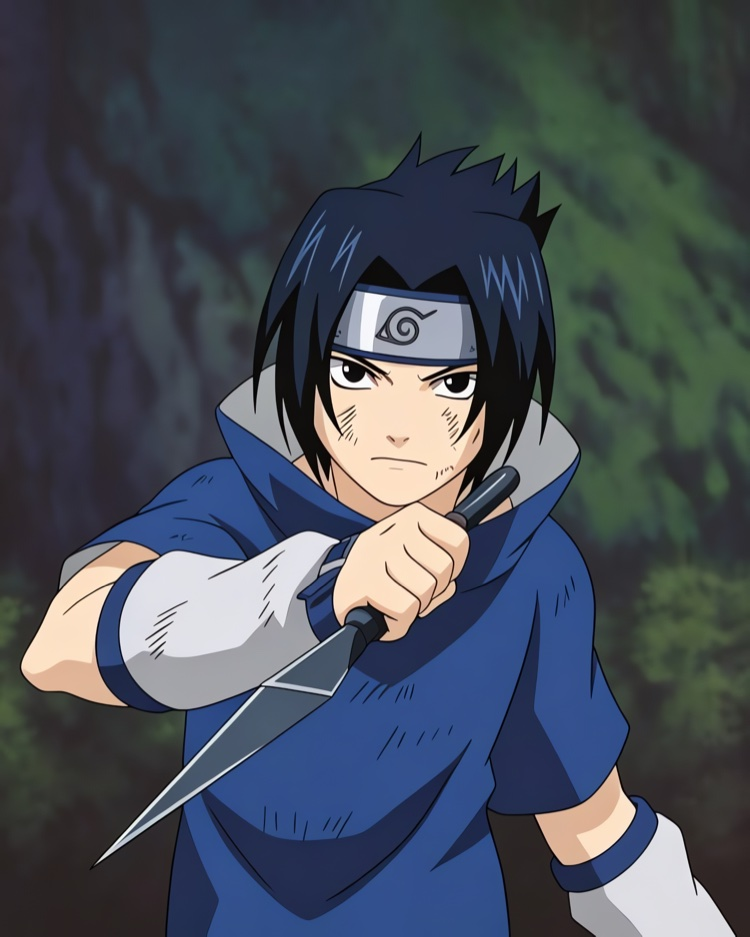
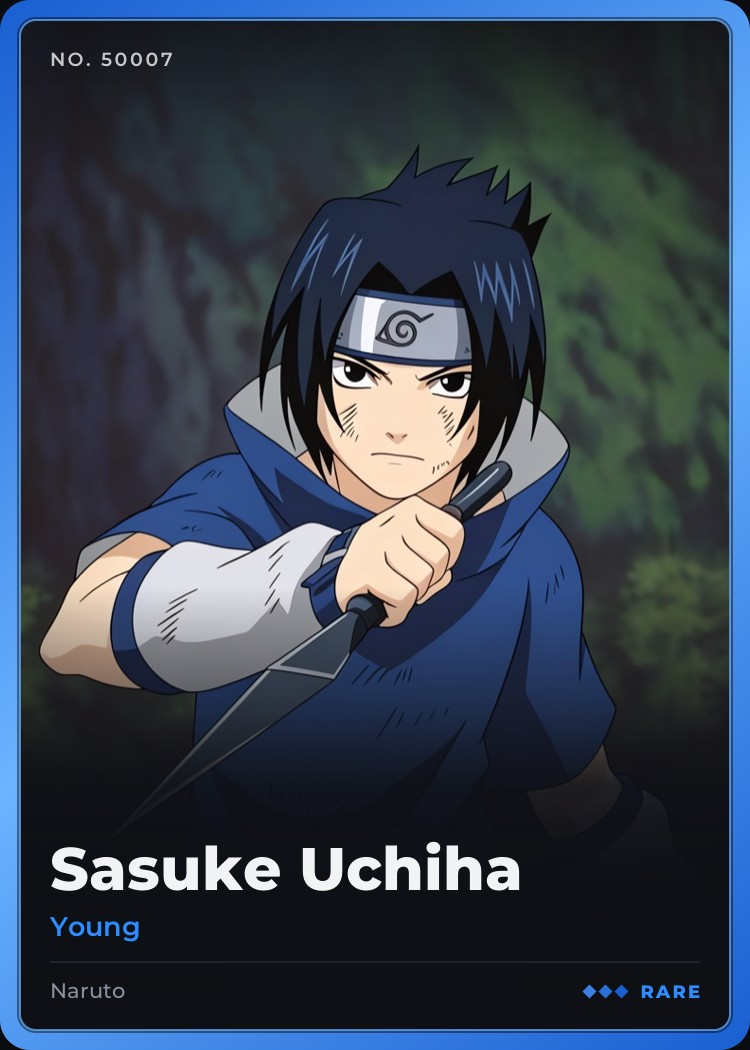
Store finished Will of Fire cards instead of their source art
images/packs/WOF/<NNN>.jpg are now the 53 pre-rendered collectible cards the bot
sends as is. Source art moves to raw/packs/<SET>/art/ (local, not committed), and
process-pack.sh processes new art there and re-renders the set's cards.

diff --git a/README.md b/README.md
@@ -17,14 +17,18 @@ Every image goes through an AI upscaler before it's added:
 4. Resize to about 800px tall and save as JPG under ~200 KB.
 5. Save to `images/<series>/<id>.jpg`.
 
-## Collectible card art (packs)
+## Collectible cards (packs)
 
-Collectible cards use their own art, separate from the match portraits, so every card feels unique.
+`images/packs/<SET>/<NNN>.jpg` are the **finished collectible cards**, pre-rendered by the bot's card renderer;
+the bot sends them as they are. Card numbers, names and rarities are in the bot repo, `data/collectibles/<set>.json`
+(`images/packs/WOF/012.jpg` is card 12 of Will of Fire).
 
-- `images/packs/<SET>/<NNN>.jpg`: art for card number NNN of a set, 3 digits (`images/packs/WOF/012.jpg` is card `WOF · 012/045`).
-  Card numbers and names are in the bot repo, `data/collectibles/<set>.json`.
-- 750px wide, any shape, JPG under ~300 KB. Nothing is cropped from the sides: tall art (about 5:7) fills the whole card, wider art fills the top of the card and fades into the dark name panel. Portrait images with some space above the head look best.
+Each card is drawn from its own source art when it has some, otherwise from the character's match portrait.
+Source art is kept locally in `raw/packs/<SET>/art/` (ignored by Git, like all of `raw/`).
 
-To add art: put the original in `raw/packs/<SET>/` named by card number (`12.png` or `012.png`), then run
-`./process-pack.sh WOF`. It upscales (same Real-ESRGAN model), resizes to 750px wide and saves to `images/packs/<SET>/`.
-To redo a card, delete its JPG and run the script again.
+To add or replace art: put the original in `raw/packs/<SET>/` named by card number (`12.png` or `012.png`), then run
+`./process-pack.sh WOF`. It AI-upscales the art (same Real-ESRGAN model), resizes it to 750px wide without cropping,
+saves it to `raw/packs/<SET>/art/`, and re-renders all of the set's cards into `images/packs/<SET>/`.
+To redo a card's art, delete `raw/packs/<SET>/art/<NNN>.jpg` and run the script again.
+Portrait images with some space above the head look best: tall art fills the whole card, wider art fills the top and
+fades into the name panel.
